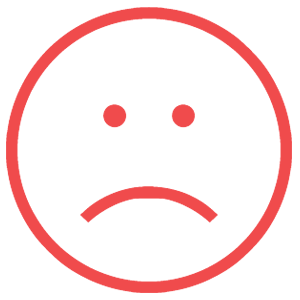
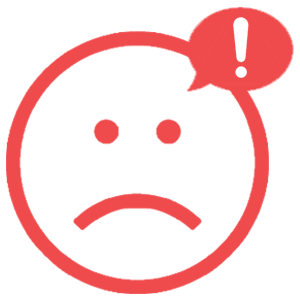
feat: columns no contents state

diff --git a/frontend/src/components/Common/NoContents.tsx b/frontend/src/components/Common/NoContents.tsx
@@ -1,11 +1,11 @@
 import React from 'react';
 import { makeStyles } from '@material-ui/core/styles';
 import { Button, Typography } from '@material-ui/core';
-import ErrorImage from '../../assets/error.png';
+import NoContentsImage from '../../assets/noContents.png';
 import theme from '../../theme';
 
 const useStyles = makeStyles(() => ({
-  error: {
+  noContents: {
     marginTop: '25px',
     flexDirection: 'column',
     alignItems: 'center',
@@ -16,35 +16,30 @@ const useStyles = makeStyles(() => ({
     maxWidth: '75px',
     maxHeight: '75px',
   },
-  oopsText: {
+  sorryText: {
     padding: '2px',
     fontSize: '20px',
     color: theme.palette.secondary.main,
   },
-  errorText: {
+  noContentsText: {
     color: 'gray',
   },
 }));
 
-const Error = () => {
+const NoContents = () => {
   const classes = useStyles();
 
-  // const refreshPage = () => {
-  //   window.location.reload(false);
-  // };
-
   return (
-    <div className={classes.error}>
+    <div className={classes.noContents}>
       <div>
-        <img className={classes.image} src={ErrorImage} alt="" />
+        <img className={classes.image} src={NoContentsImage} alt="" />
       </div>
-      <Typography className={classes.oopsText}>Oops!</Typography>
-      <Typography className={classes.errorText}>
-        Something went wrong.
+      <Typography className={classes.sorryText}>Sorry,</Typography>
+      <Typography className={classes.noContentsText}>
+        No contents found.
       </Typography>
-      {/* <Button onClick={refreshPage}>Reload</Button> */}
     </div>
   );
 };
 
-export default Error;
+export default NoContents;

diff --git a/frontend/src/components/Columns/ColumnsData.tsx b/frontend/src/components/Columns/ColumnsData.tsx
@@ -1,45 +1,17 @@
-// const columnsData = {
-//   columns: [
-//     {
-//       id: 'news-api',
-//       isVisible: true,
-//       feedType: 'news',
-//       title: 'News Feed',
-//     },
-//     {
-//       id: 'twitter-api',
-//       isVisible: true,
-//       feedType: 'twitter',
-//       title: 'Twitter Feed',
-//     },
-//     {
-//       id: 'a',
-//       isVisible: true,
-//       feedType: 'twitter',
-//       title: 'User Feed',
-//     },
-//     {
-//       id: 'a',
-//       isVisible: true,
-//       feedType: 'news',
-//       title: 'Sqoopified Feed',
-//     },
-//   ],
-// };
-
-// export default columnsData;
 import React from 'react';
 import { useQuery } from '@apollo/client';
 import { GET_COLUMNS_QUERY } from './query';
 import { GetColumnsQuery } from './query.generated';
 import Loader from '../Common/Loader';
 import Columns from './Column';
+import Error from '../Common/Error';
+import NoContents from '../Common/NoContents';
 
 export const ColumnsData = () => {
   const { data, loading, error } = useQuery<GetColumnsQuery>(GET_COLUMNS_QUERY);
-  if (error) return <div>error</div>;
+  if (error) return <Error />;
   if (loading) return <Loader />;
-  if (!data) return <div>data</div>;
+  if (!data) return <Error />;
 
   return <Columns data={data} />;
 };

diff --git a/frontend/src/pages/Boards/TwitterAPIColumnData.tsx b/frontend/src/pages/Boards/TwitterAPIColumnData.tsx
@@ -5,6 +5,7 @@ import { GetTwitterApiContentsQuery } from './query.generated';
 import TwitterAPIColumn from './TwitterAPIColumn';
 import Loader from '../../components/Common/Loader';
 import Error from '../../components/Common/Error';
+import NoContents from '../../components/Common/NoContents';
 
 interface TwitterApiColumnDataProps {
   keyword: string | null;
@@ -21,7 +22,8 @@ const TwitterAPIColumnData: React.FC<TwitterApiColumnDataProps> = ({
   );
   if (error) return <Error />;
   if (loading) return <Loader />;
-  if (!data) return <div>data</div>;
+  if (!data) return <Error />;
+  if (data.searchTweets.length === 0) return <NoContents />;
 
   return <TwitterAPIColumn data={data} />;
 };

diff --git a/frontend/src/pages/Boards/NewsAPIColumnData.tsx b/frontend/src/pages/Boards/NewsAPIColumnData.tsx
@@ -6,6 +6,7 @@ import NewsAPIColumn from './NewsAPIColumn';
 import Loader from '../../components/Common/Loader';
 import { Category } from '../../types.generated';
 import Error from '../../components/Common/Error';
+import NoContents from '../../components/Common/NoContents';
 
 interface NewsApiColumnDataProps {
   country: string;
@@ -26,7 +27,8 @@ const NewsAPIColumnData: React.FC<NewsApiColumnDataProps> = ({
   );
   if (error) return <Error />;
   if (loading) return <Loader />;
-  if (!data) return <div>data</div>;
+  if (!data) return <Error />;
+  if (data.topHeadlines.length === 0) return <NoContents />;
 
   return <NewsAPIColumn data={data} />;
 };
